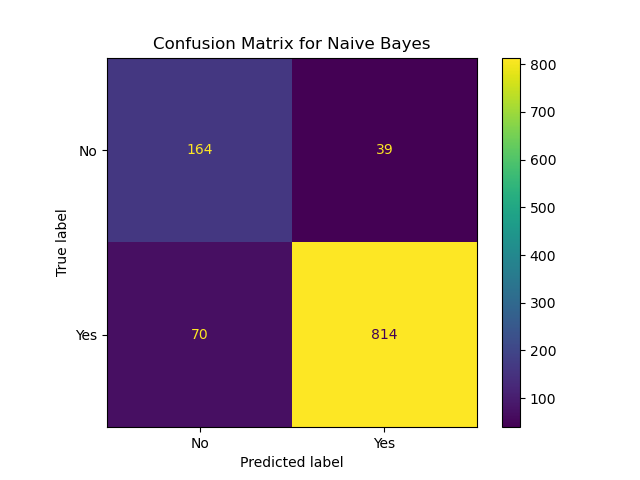
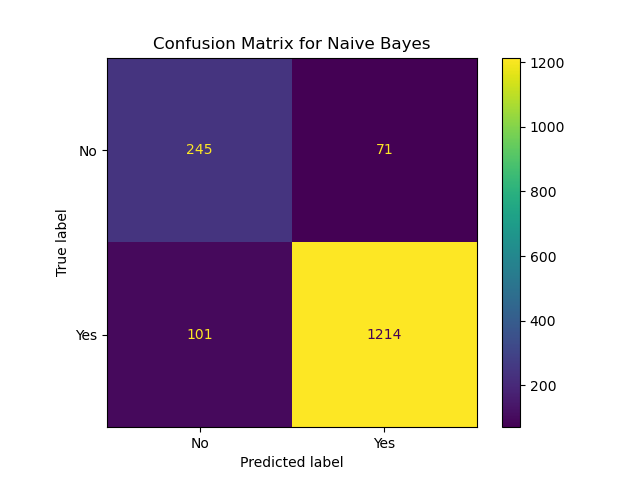
Adding feature importances for DT

diff --git a/models/decision_tree.py b/models/decision_tree.py
@@ -6,7 +6,8 @@ from sklearn.metrics import classification_report
 from sklearn.metrics import plot_confusion_matrix
 
 def decision_tree():
-    print("Running Decision Tree...")
+    print("="*60)
+    print("\nRunning Decision Tree...")
     DATA_FILE = utils.get_data_directory()
 
     param_grid = {
@@ -18,13 +19,22 @@ def decision_tree():
     clf = GridSearchCV(DecisionTreeClassifier(), param_grid=param_grid)
 
     X, y = preprocess.preprocess_data(DATA_FILE)
-    X_train, X_test, y_train, y_test = utils.split_data(X, y, 0.8)
+    X_train, X_test, y_train, y_test = utils.split_data(X, y, 0.7)
 
     model = clf.fit(X_train, y_train)
     report_dict = classification_report(y_test, model.predict(X_test), output_dict = True, target_names=["No", "Yes"])
     report = classification_report(y_test, model.predict(X_test), target_names=["No", "Yes"])
     print(report)
-    print(f'Best params are {model.best_params_}')
+    
+    feature_importances = model.best_estimator_.feature_importances_
+    features = utils.get_feature_names()
+    top_feature_importances = list(sorted(enumerate(feature_importances), key = lambda x: x[1], reverse = True))
+
+    u'•' == u'\u2022'
+    print(f'The top three features are: ')
+    print(f'\t\u2022 {features[top_feature_importances[0][0]]} with a mean importance of {round(top_feature_importances[0][1], 4)}')
+    print(f'\t\u2022 {features[top_feature_importances[1][0]]} with a mean importance of {round(top_feature_importances[1][1], 4)}')
+    print(f'\t\u2022 {features[top_feature_importances[2][0]]} with a mean importance of {round(top_feature_importances[2][1], 4)}') 
 
     utils.generate_report("DecisionTree", "Decision Tree", model, X_test, y_test, report_dict)
 

diff --git a/models/naive_bayes.py b/models/naive_bayes.py
@@ -13,7 +13,7 @@ def naive_bayes():
     DATA_FILE = utils.get_data_directory()
 
     X, y = preprocess.preprocess_data(DATA_FILE)
-    X_train, X_test, y_train, y_test = utils.split_data(X, y, 0.8)
+    X_train, X_test, y_train, y_test = utils.split_data(X, y, 0.7)
 
     model = clf.fit(X_train, y_train)
     report_dict = classification_report(y_test, model.predict(X_test), output_dict = True, target_names=["No", "Yes"])
